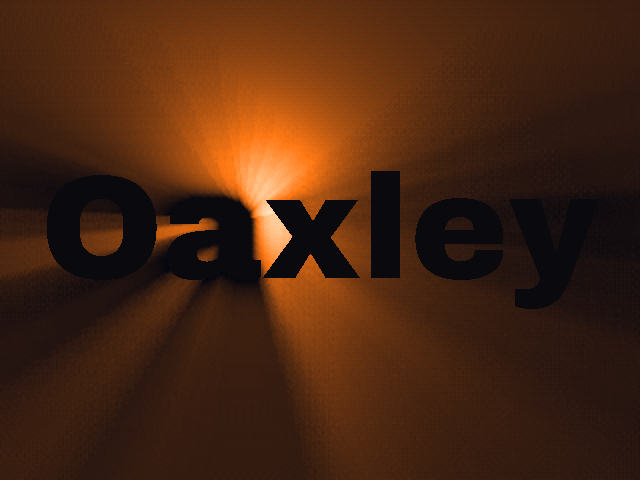
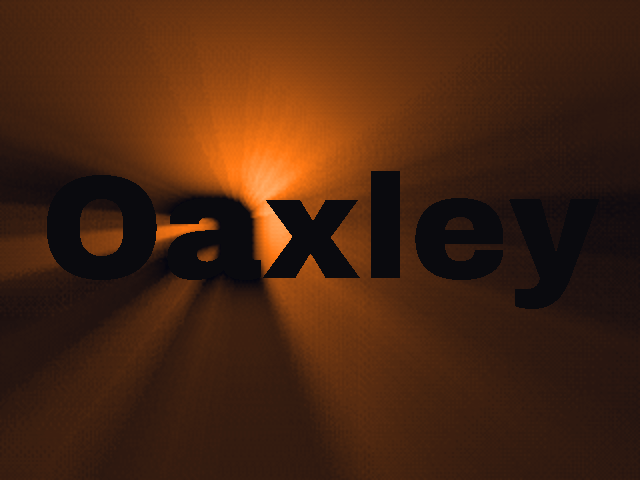
feat(ts-lightrays): slower light sweep (12 s)

Changed region(s): [[0.3438, 0.25, 0.5, 0.8438], [0.25, 0.4375, 0.3438, 0.5], [0.1562, 0.4375, 0.1875, 0.4688]]

diff --git a/tests/effects/lightrays.test.ts b/tests/effects/lightrays.test.ts
@@ -183,8 +183,8 @@ describe("ts-lightrays effect", () => {
         }
         expect(inner.length).toBeGreaterThan(1000);
 
-        // the light sweeps across the screen in 100 frames: check every 10th
-        for (let f = 0; f <= 100; f++) {
+        // the light crosses the screen in 150 frames (half a sweep): check every 10th
+        for (let f = 0; f <= 150; f++) {
             effect.run(1000 + f * 50);
             if (f % 10 !== 5) continue;
             for (const i of inner) {

diff --git a/files/effects/ts-lightrays/src/lightrays.ts b/files/effects/ts-lightrays/src/lightrays.ts
@@ -19,7 +19,7 @@ import { Surface } from "library/gfx/surface";
 export const FPS = 25;
 
 // light path
-const SWEEP = (2 * Math.PI) / (8 * FPS); // one full sweep (left -> right -> left) in 8 s
+const SWEEP = (2 * Math.PI) / (12 * FPS); // one full sweep (left -> right -> left) in 12 s
 const DRIFT = 40; // vertical drift around the screen centre (pixels)
 
 // rays (half-size buffer)
